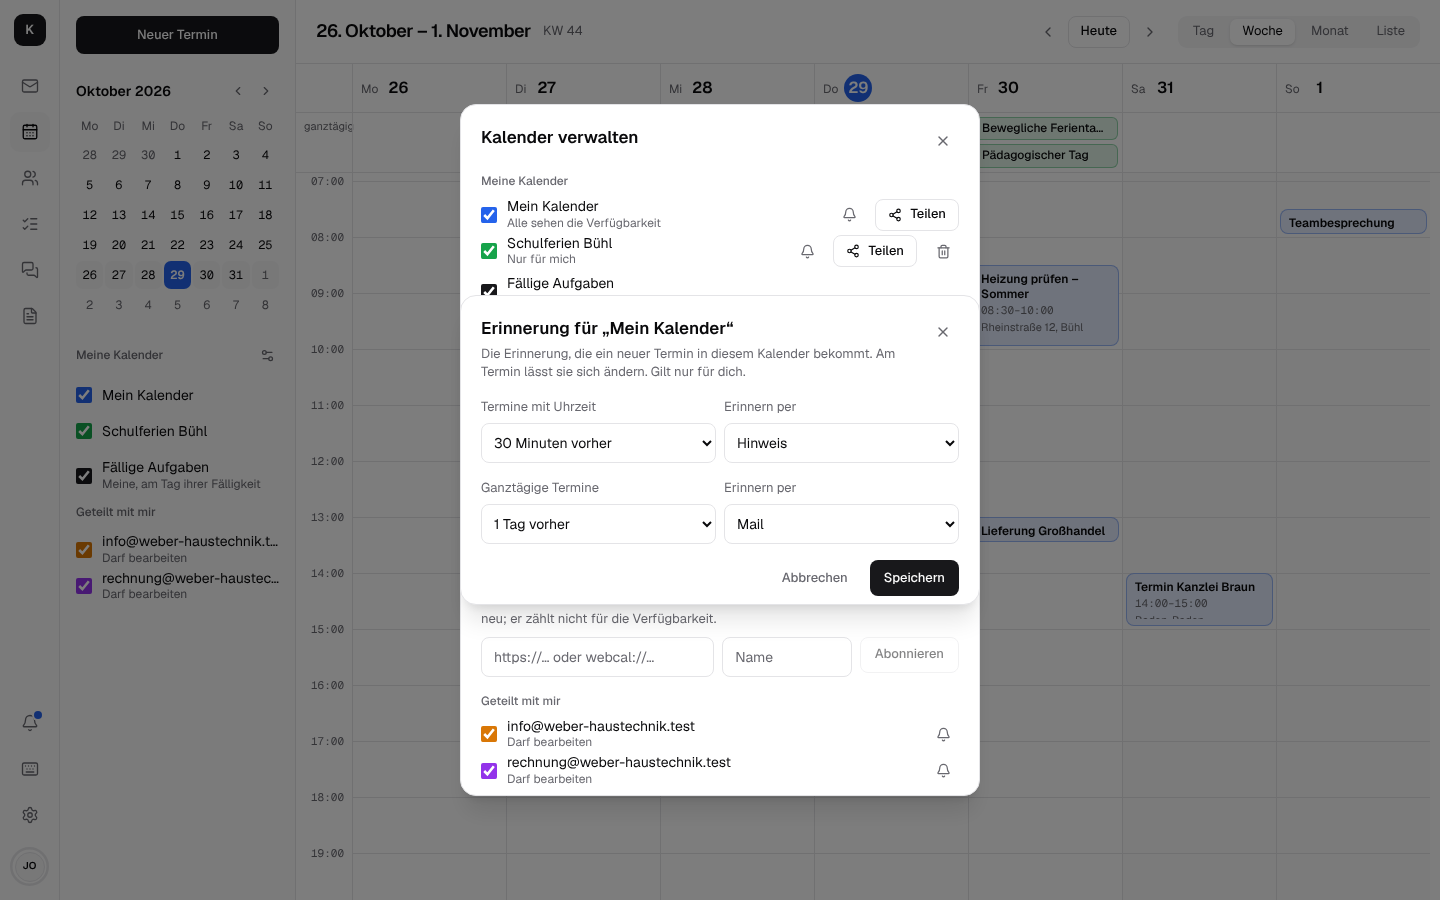
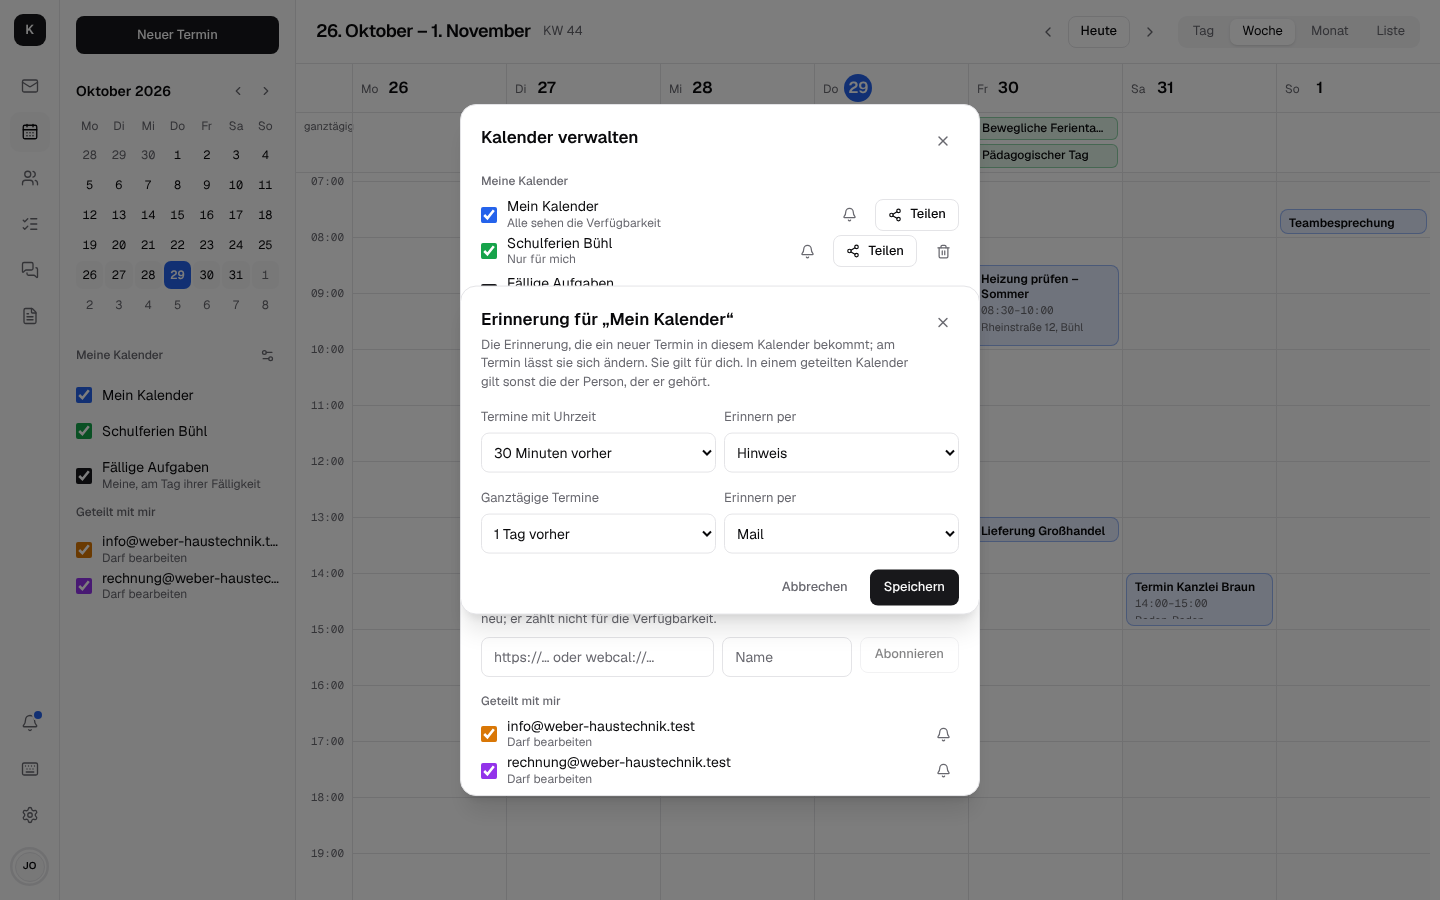
Calendar: say whose default reminder applies in a shared calendar; name both "Erinnern per"
Stalwart gives the owner's calendar preferences to anyone without their own
(ArchivedCalendar::preferences falls back to the first), so the hint no
longer says the default is only for oneself. The two "Erinnern per"
fields of the dialog are named after their kind (TDD review notes).

Claude-Session: https://claude.ai/code/session_01Y3rdfZvzQcbFpL57ZWR4Eh

Changed region(s): [[0.3125, 0.3111, 0.625, 0.6222], [0.3125, 0.6222, 0.6875, 0.6844]]

diff --git a/src/features/calendar/reminder-fields.tsx b/src/features/calendar/reminder-fields.tsx
@@ -39,9 +39,11 @@ type Props = {
   label?: string;
   /** What no reminder is called; "Keine" by default. */
   noneLabel?: string;
+  /** The name of "Erinnern per", where two of these stand together. */
+  howLabel?: string;
 };
 
-export const ReminderFields = ({ value, allDay, onChange, label, noneLabel }: Props) => {
+export const ReminderFields = ({ value, allDay, onChange, label, noneLabel, howLabel }: Props) => {
   const action: ReminderAction = value && value !== "kept" ? value.action : "display";
   const selected = value === "kept" ? "kept" : value ? String(value.minutes) : "none";
   const pick = (choice: string) =>
@@ -64,8 +66,9 @@ export const ReminderFields = ({ value, allDay, onChange, label, noneLabel }: Pr
       </Label>
       {value && value !== "kept" ? (
         <Label className="flex-1">
-          {m.calendar_reminder_how()}
+          <span aria-hidden={howLabel ? true : undefined}>{m.calendar_reminder_how()}</span>
           <Select
+            aria-label={howLabel}
             value={value.action}
             onChange={(e) => onChange({ ...value, action: e.target.value as ReminderAction })}
           >

diff --git a/src/features/calendar/default-reminder.tsx b/src/features/calendar/default-reminder.tsx
@@ -81,12 +81,14 @@ const DefaultReminderDialog = ({
         onChange={(choice) => setTimed(plain(choice))}
         label={m.calendar_default_reminder_timed()}
         noneLabel={m.calendar_default_reminder_usual()}
+        howLabel={`${m.calendar_reminder_how()} (${m.calendar_default_reminder_timed()})`}
       />
       <ReminderFields
         value={allDay}
         allDay
         onChange={(choice) => setAllDay(plain(choice))}
         label={m.calendar_default_reminder_all_day()}
+        howLabel={`${m.calendar_reminder_how()} (${m.calendar_default_reminder_all_day()})`}
       />
       <div className="flex justify-end gap-2">
         <Button variant="ghost" onClick={onClose}>

diff --git a/docs/calendar-contacts.md b/docs/calendar-contacts.md
@@ -41,9 +41,9 @@ Kontext steht, steht auch am iPhone, unter Android (DAVx⁵) und in Thunderbird.
 - **Erinnerung je Kalender:** In *Kalender verwalten* öffnet die Glocke neben einem Kalender die
   Erinnerung, die neue Termine in ihm bekommen, getrennt für Termine mit Uhrzeit und ganztägige.
   Etwa „Baustellen“: einen Tag vorher per Mail. Der neue Termin übernimmt sie ins Formular, man
-  kann sie dort noch ändern. Die Einstellung gilt nur für einen selbst (auch bei geteilten
-  Kalendern) und liegt in Stalwart am Kalender (`defaultAlertsWithTime`,
-  `defaultAlertsWithoutTime`). Ohne Einstellung bleibt es bei 15 Minuten vorher, ganztägig bei
+  kann sie dort noch ändern. Die Einstellung gilt für einen selbst und liegt in Stalwart am
+  Kalender (`defaultAlertsWithTime`, `defaultAlertsWithoutTime`); in einem geteilten Kalender
+  gilt, solange man keine eigene setzt, die der Person, der er gehört. Ohne Einstellung bleibt es bei 15 Minuten vorher, ganztägig bei
   keiner.
 
   ![Erinnerung für „Mein Kalender“: 30 Minuten vorher, ganztägig einen Tag vorher per Mail](screenshots/calendar-default-reminder.png)
